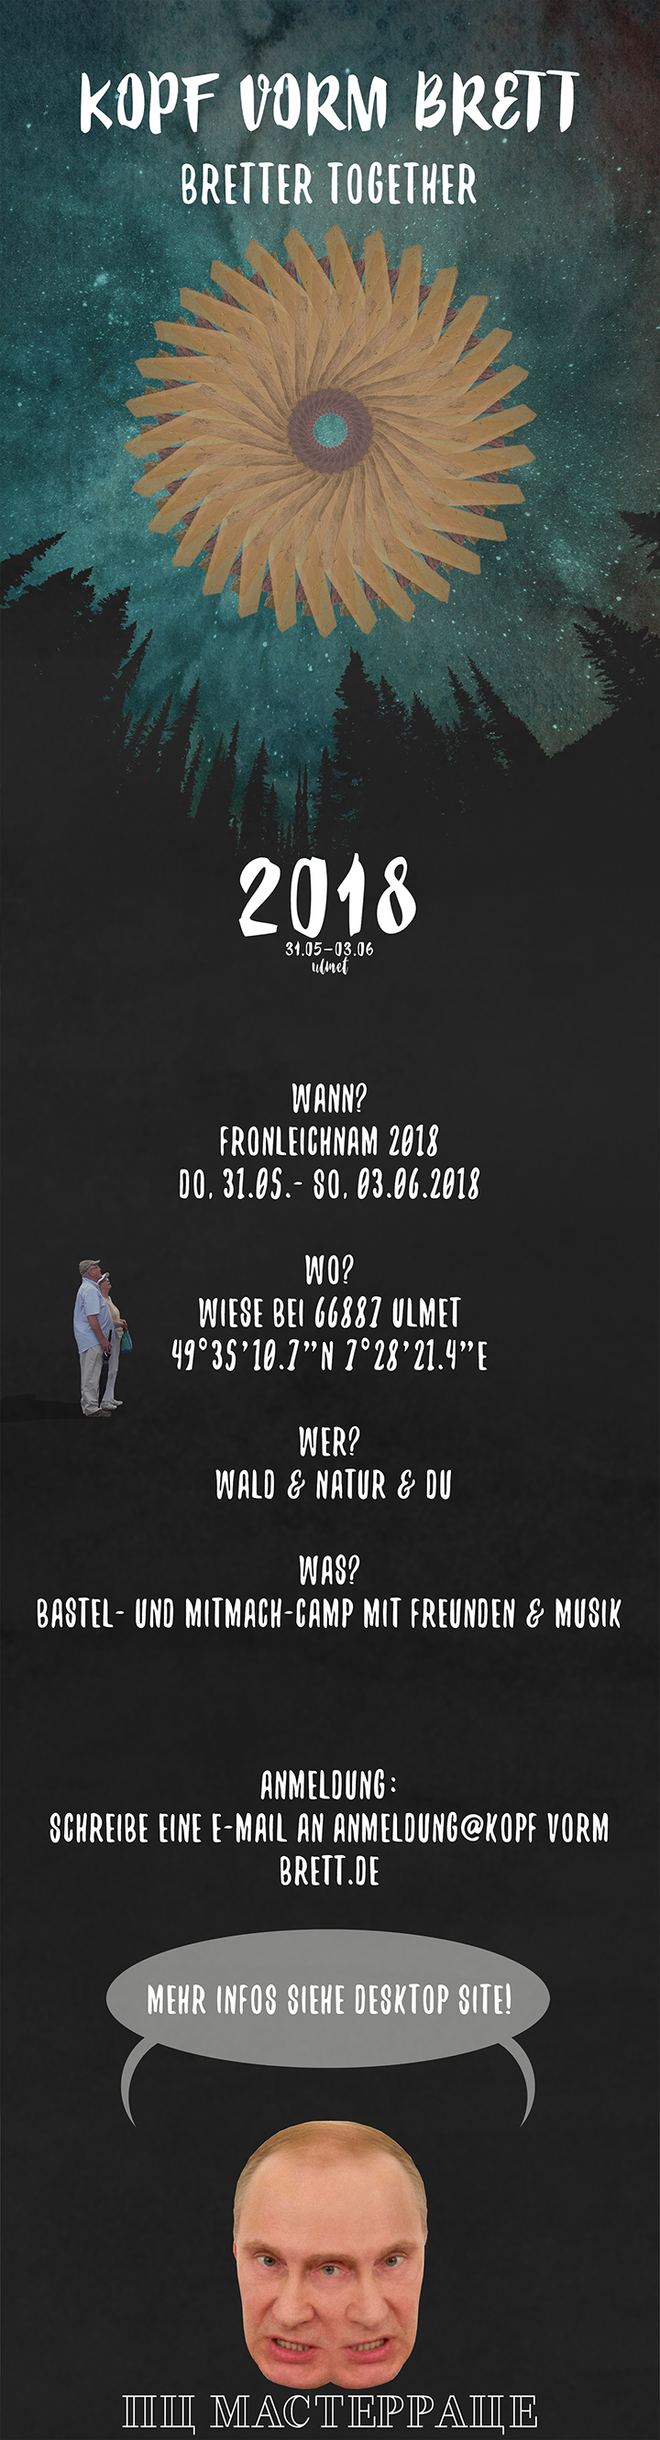
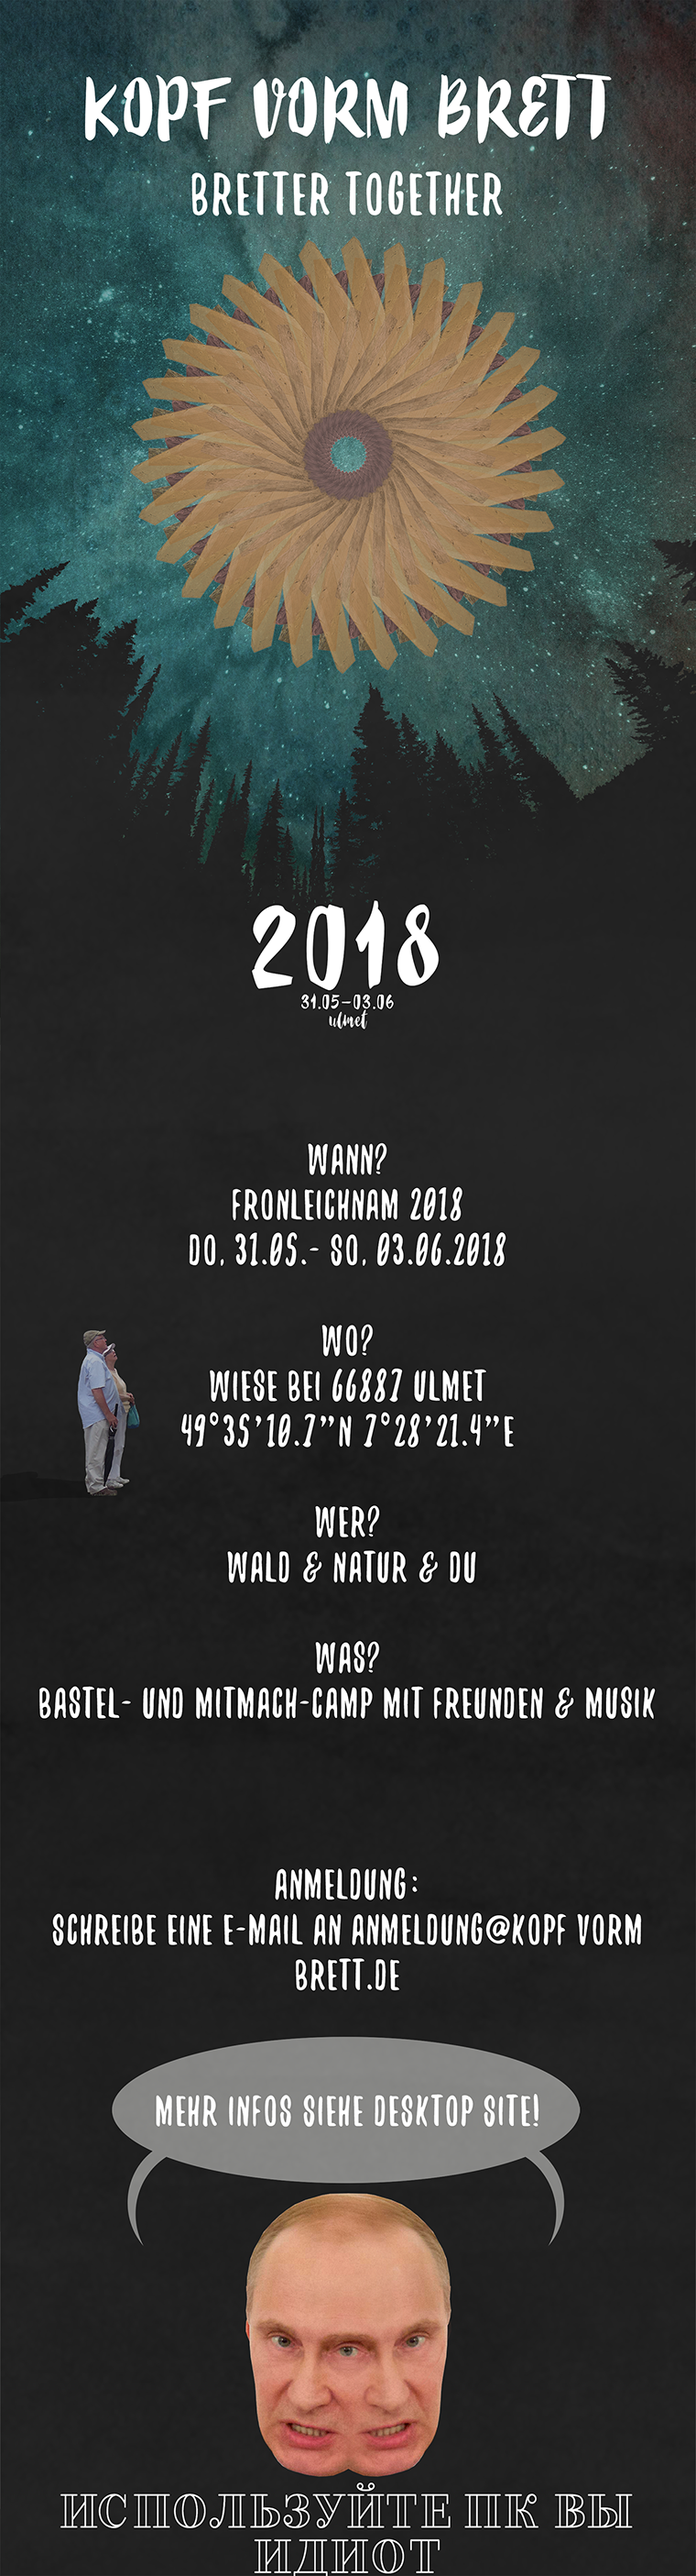
PASS
PASS

Changed region(s): [[0.0917, 0.8418, 0.9167, 1.0], [0.6111, 0.5301, 0.6417, 0.5612], [0.3056, 0.5301, 0.3361, 0.5612]]

diff --git a/phone/index.html b/phone/index.html
@@ -18,15 +18,15 @@ if(typeof Muse == "undefined") window.Muse = {}; window.Muse.assets = {"required
   <title>Homepage</title>
   <!-- CSS -->
   <link rel="stylesheet" type="text/css" href="../css/site_global.css?crc=444006867"/>
-  <link rel="stylesheet" type="text/css" href="css/index.css?crc=4201965235" id="pagesheet"/>
+  <link rel="stylesheet" type="text/css" href="css/index.css?crc=4144108240" id="pagesheet"/>
    </head>
  <body>
 
   <div class="clearfix borderbox" id="page"><!-- column -->
+   <div class="verticalspacer" data-offset-top="0" data-content-above-spacer="0" data-content-below-spacer="2809" data-sizePolicy="fixed" data-pintopage="page_fixedLeft"></div>
    <div class="clip_frame colelem" id="u4564"><!-- image -->
-    <img class="block" id="u4564_img" src="../images/mobil.png?crc=335935019" data-hidpi-src="../images/mobil_2x.png?crc=3932179656" alt="" data-heightwidthratio="3.6972222222222224" data-image-width="720" data-image-height="2662"/>
+    <img class="block" id="u4564_img" src="../images/mobil.png?crc=104274486" data-hidpi-src="../images/mobil_2x.png?crc=4282889154" alt="" data-heightwidthratio="3.6973684210526314" data-image-width="760" data-image-height="2810"/>
    </div>
-   <div class="verticalspacer" data-offset-top="2662" data-content-above-spacer="2661" data-content-below-spacer="113" data-sizePolicy="fixed" data-pintopage="page_fixedLeft"></div>
   </div>
   <!-- Other scripts -->
   <script type="text/javascript">

diff --git a/phone/css/index.css b/phone/css/index.css
@@ -1,1 +1,1 @@
-.version.index{color:#0000FA;background-color:#74E6B3;}#muse_css_mq{background-color:#FFFFFF;}#page{z-index:1;min-height:2529px;background-image:none;border-width:0px;border-color:#000000;background-color:transparent;padding-bottom:71px;width:100%;max-width:720px;margin-left:auto;margin-right:auto;}#u4564{z-index:2;background-color:transparent;position:relative;width:100%;}#u4564_img{width:100%;}.css_verticalspacer .verticalspacer{height:calc(100vh - 2774px);}.html{background-color:#000000;}body{position:relative;min-width:320px;padding-bottom:43px;}
+.version.index{color:#0000F7;background-color:#0212D0;}#muse_css_mq{background-color:#FFFFFF;}#page{z-index:1;min-height:2810px;background-image:none;border-width:0px;border-color:#000000;background-color:transparent;width:100%;max-width:760px;margin-left:auto;margin-right:auto;}.css_verticalspacer .verticalspacer{height:calc(100vh - 2809px);}#u4564{z-index:2;background-color:transparent;position:relative;width:100%;}#u4564_img{width:100%;}.html{background-color:#000000;}body{position:relative;min-width:380px;}
